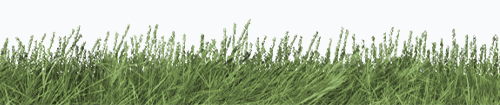
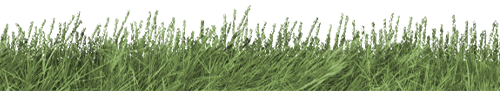
testing new background and new spacers

diff --git a/index.html b/index.html
@@ -93,11 +93,9 @@
                     <br>xoxo
                 </p>
             </div>
-            <!-- <img class="photos" id="photo-01" src="assets/content/nic-emma-3-1.jpg" alt="">
-            <img class="photos" id="photo-02"  src="assets/content/nic-emma-3-2.jpg" alt=""> -->
+            <img class="spacer mobile-small" src="assets/spacer/mobile/small/spacer_01.png" alt="grass seperator">
+            <img class="spacer mobile-smaller" src="assets/spacer/mobile/smaller/spacer_01.png" alt="grass seperator">
         </section>
-        <img class="spacer mobile-small" src="assets/spacer/mobile/small/spacer_01.png" alt="grass seperator">
-        <img class="spacer mobile-smaller" src="assets/spacer/mobile/smaller/spacer_01.png" alt="grass seperator">
         <section id="schedule">
             <div class="sign" id="schedule-sign">
                 <img class="icon" src="assets/icons/section/01_full.png" alt="sun icon">
@@ -189,9 +187,9 @@
                 <div id="center"></div>
                 <div class="leg" id="right"></div>
             </div>
+            <img class="spacer mobile-small" src="assets/spacer/mobile/small/spacer_00.png" alt="grass seperator">
+            <img class="spacer mobile-smaller" src="assets/spacer/mobile/smaller/spacer_00.png" alt="grass seperator">
         </section>
-        <img class="spacer mobile-small" src="assets/spacer/mobile/small/spacer_02.png" alt="grass seperator">
-        <img class="spacer mobile-smaller" src="assets/spacer/mobile/smaller/spacer_02.png" alt="grass seperator">
         <section id="location">
             <div class="sign" id="location-sign">
                 <img class="icon" src="assets/icons/section/02_full.png" alt="binocular icon">
@@ -229,9 +227,9 @@
                 <div id="center"></div>
                 <div class="leg" id="right"></div>
             </div>
+            <img class="spacer mobile-small" src="assets/spacer/mobile/small/spacer_01.png" alt="grass seperator">
+            <img class="spacer mobile-smaller" src="assets/spacer/mobile/smaller/spacer_01.png" alt="grass seperator">
         </section>
-        <img class="spacer mobile-small" src="assets/spacer/mobile/small/spacer_03.png" alt="grass seperator">
-        <img class="spacer mobile-smaller" src="assets/spacer/mobile/smaller/spacer_03.png" alt="grass seperator">
         <section id="lodging">
             <div class="sign" id="lodging-sign">
                 <img class="icon" src="assets/icons/section/03_full.png" alt="house icon">
@@ -264,7 +262,7 @@
                                 neighbouring
                                 town of Saint-Adolphe-d’Howard.</li>
                         </ul>
-                        <p id="mobile-link"><br><a class="link ref"
+                        <p id="mobile-link"><br><a class="link external"
                                 href="https://drive.google.com/drive/folders/1goo7SXUNBn8ho8EIUtLz_Z3tUvBFEfZL">CLICK
                                 HERE TO VIEW CABINS</a><br><br></p>
                     </div>
@@ -276,7 +274,7 @@
                 <div class="leg" id="right"></div>
             </div>
             <div class="span-sign">
-                <a class="link ref" id="sign-link"
+                <a class="link external" id="sign-link"
                     href="https://drive.google.com/drive/folders/1goo7SXUNBn8ho8EIUtLz_Z3tUvBFEfZL">CLICK HERE <br>TO
                     VIEW CABINS</a>
                 <img src="assets/sign-img.svg" alt="">
@@ -284,9 +282,9 @@
                     <div class="leg single"></div>
                 </div>
             </div>
+            <img class="spacer mobile-small" src="assets/spacer/mobile/small/spacer_00.png" alt="grass seperator">
+        <img class="spacer mobile-smaller" src="assets/spacer/mobile/smaller/spacer_00.png" alt="grass seperator">
         </section>
-        <img class="spacer mobile-small" src="assets/spacer/mobile/small/spacer_04.png" alt="grass seperator">
-        <img class="spacer mobile-smaller" src="assets/spacer/mobile/smaller/spacer_04.png" alt="grass seperator">
         <section id="faq">
             <div class="sign" id="faq-sign">
                 <img class="icon" src="assets/icons/section/04_full.png" alt="question mark sign icon">
@@ -343,9 +341,9 @@
                 <div id="center"></div>
                 <div class="leg" id="right"></div>
             </div>
+            <img class="spacer mobile-small" src="assets/spacer/mobile/small/spacer_01.png" alt="grass seperator">
+            <img class="spacer mobile-smaller" src="assets/spacer/mobile/smaller/spacer_01.png" alt="grass seperator">
         </section>
-        <img class="spacer mobile-small" src="assets/spacer/mobile/small/spacer_05.png" alt="grass seperator">
-        <img class="spacer mobile-smaller" src="assets/spacer/mobile/smaller/spacer_05.png" alt="grass seperator">
         <section id="gift">
             <div class="sign small" id="gift-sign">
                 <img class="icon" src="assets/icons/section/05_full.png" alt="gift icon">
@@ -369,9 +367,9 @@
                 <div id="center"></div>
                 <div class="leg small" id="right"></div>
             </div>
+            <img class="spacer mobile-small" src="assets/spacer/mobile/small/spacer_00.png" alt="grass seperator">
+        <img class="spacer mobile-smaller" src="assets/spacer/mobile/smaller/spacer_00.png" alt="grass seperator">
         </section>
-        <img class="spacer mobile-small" src="assets/spacer/mobile/small/spacer_06.png" alt="grass seperator">
-        <img class="spacer mobile-smaller" src="assets/spacer/mobile/smaller/spacer_06.png" alt="grass seperator">
         <section id="outreach">
             <div class="sign small" id="outreach-sign">
                 <img class="icon" src="assets/icons/section/06_full.png" alt="dove icon">
@@ -396,9 +394,9 @@
                 <div id="center"></div>
                 <div class="leg small" id="right"></div>
             </div>
+            <img class="spacer mobile-small" src="assets/spacer/mobile/small/spacer_01.png" alt="grass seperator">
+            <img class="spacer mobile-smaller" src="assets/spacer/mobile/smaller/spacer_01.png" alt="grass seperator">
         </section>
-        <img class="spacer mobile-small" src="assets/spacer/mobile/small/spacer_07.png" alt="grass seperator">
-        <img class="spacer mobile-smaller" src="assets/spacer/mobile/smaller/spacer_07.png" alt="grass seperator">
         <section id="rsvp">
             <div class="sign smaller" id="rsvp-sign">
                 <img class="icon" src="assets/icons/section/07_full.png" alt="envelope icon">
@@ -415,9 +413,9 @@
                 <div id="center"></div>
                 <div class="leg smaller" id="right"></div>
             </div>
+            <img class="spacer mobile-small" src="assets/spacer/mobile/small/spacer_00.png" alt="grass seperator">
+            <img class="spacer mobile-smaller" src="assets/spacer/mobile/smaller/spacer_00.png" alt="grass seperator">
         </section>
-        <img class="spacer mobile-small" src="assets/spacer/mobile/small/spacer_08.png" alt="grass seperator">
-        <img class="spacer mobile-smaller" src="assets/spacer/mobile/smaller/spacer_08.png" alt="grass seperator">
         <section id="footer">
             <br><br>
             <p>We’re excited to see you!<br>♡<br>Nic & Emma</p>

diff --git a/css/style.css b/css/style.css
@@ -341,6 +341,7 @@ section#location p:first-child {
 }
 
 .letter {
+  margin-top: 2vh;
   z-index: 96;
 }
 
@@ -392,8 +393,13 @@ section#location p:first-child {
 }
 
 .credit {
-  font-size: calc(0.875rem + 0.1vw);
-  /* ~14px */
+  color: #8b8479;
+  font-size: calc(0.875rem + 0.1vw); /* ~14px */
+}
+
+.credit .link.ref {
+  color: #8b8479;
+  text-decoration: dashed underline #aca394;
 }
 
 .section-table {
@@ -455,7 +461,9 @@ th:nth-child(2) {
 }
 
 #intro {
-  background: #E5DAC6;
+  background-image: url('../assets/bg-intro.jpg');
+  background-size: cover;
+  /* background: #E5DAC6; */
 }
 
 #schedule {
@@ -697,9 +705,9 @@ screen and (max-width: 1100px) and (max-height: 700px) {
   }
 
   #intro {
-    /* background-image: url('../assets/letter-bg.jpg');
-    background-size: cover; */
-    background: #f9fafb;
+    background-image: url('../assets/letter-bg.jpg');
+    background-size: cover;
+    /* background: #f9fafb; */
     height: 100%;
   }
 
